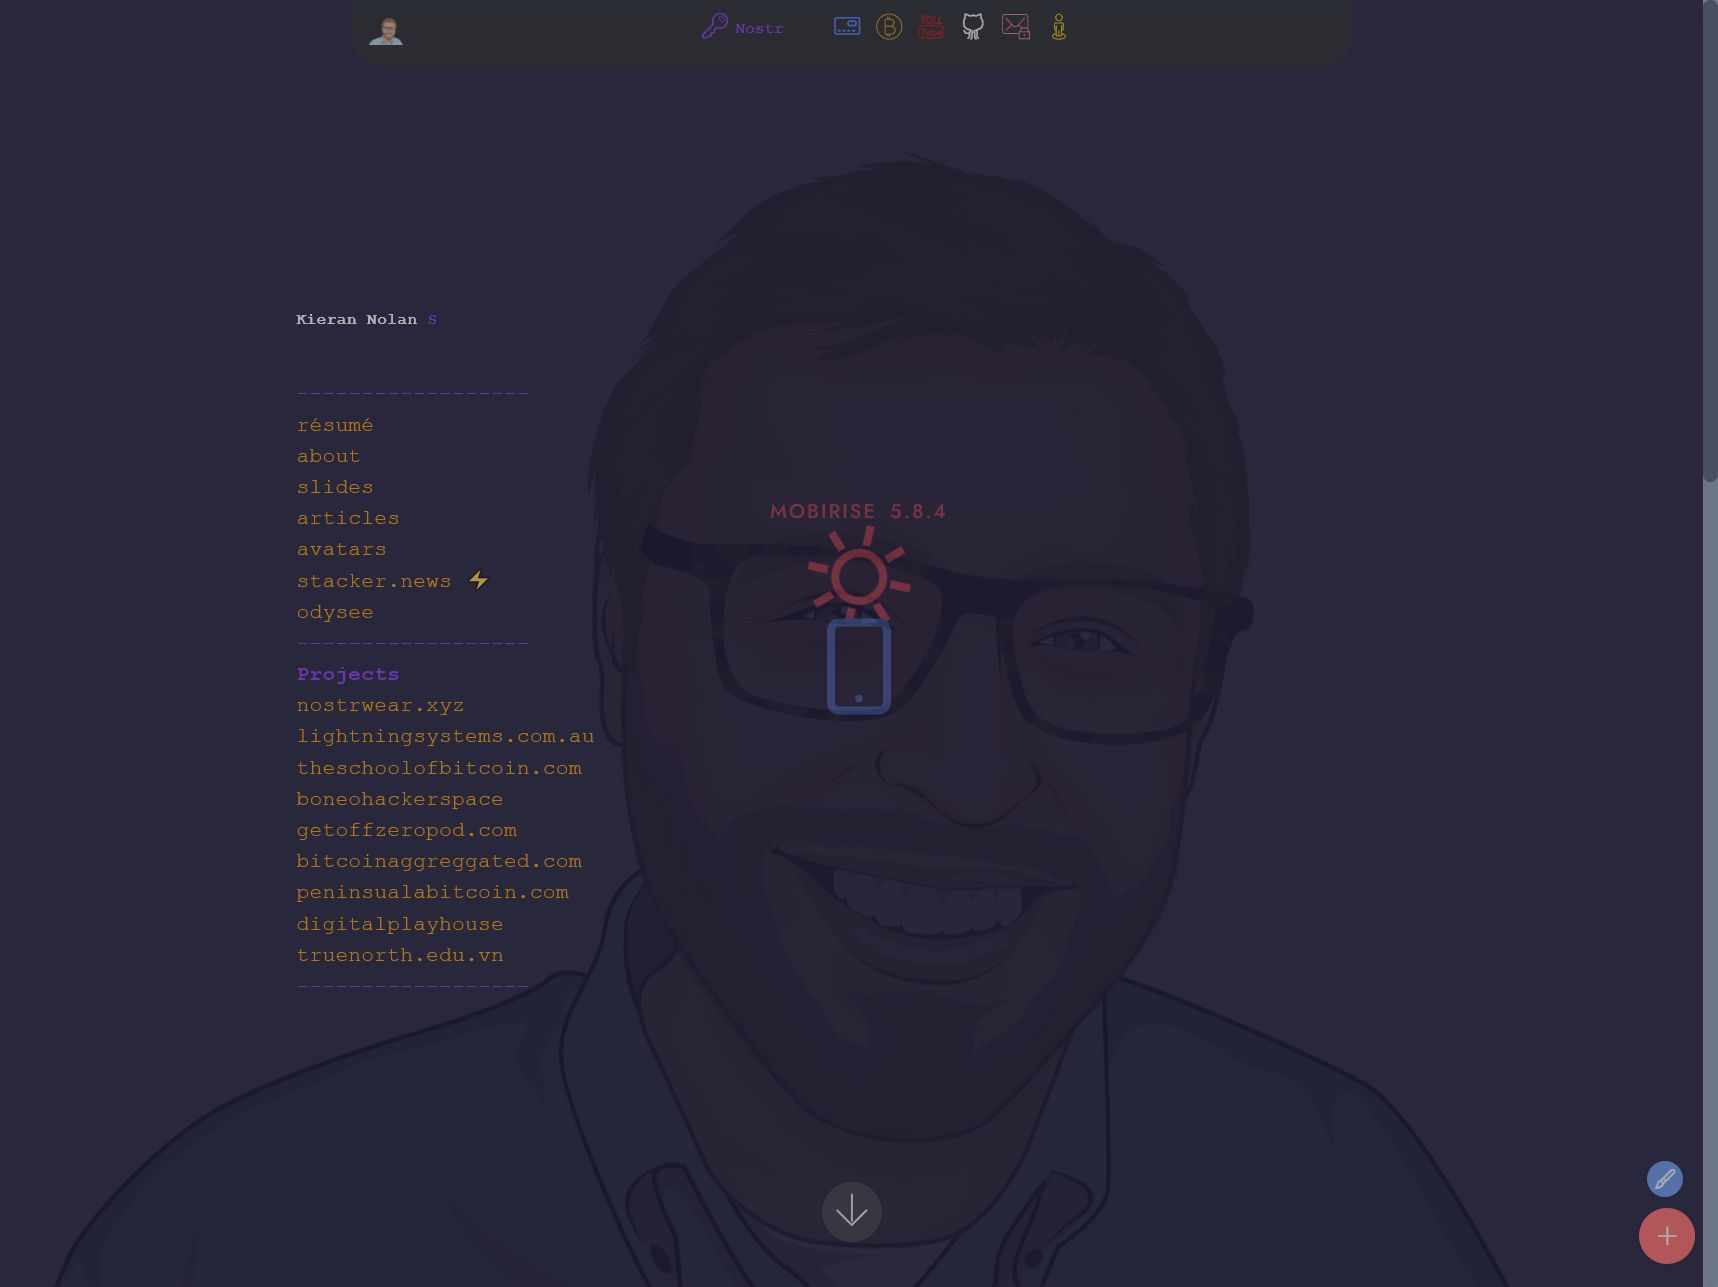
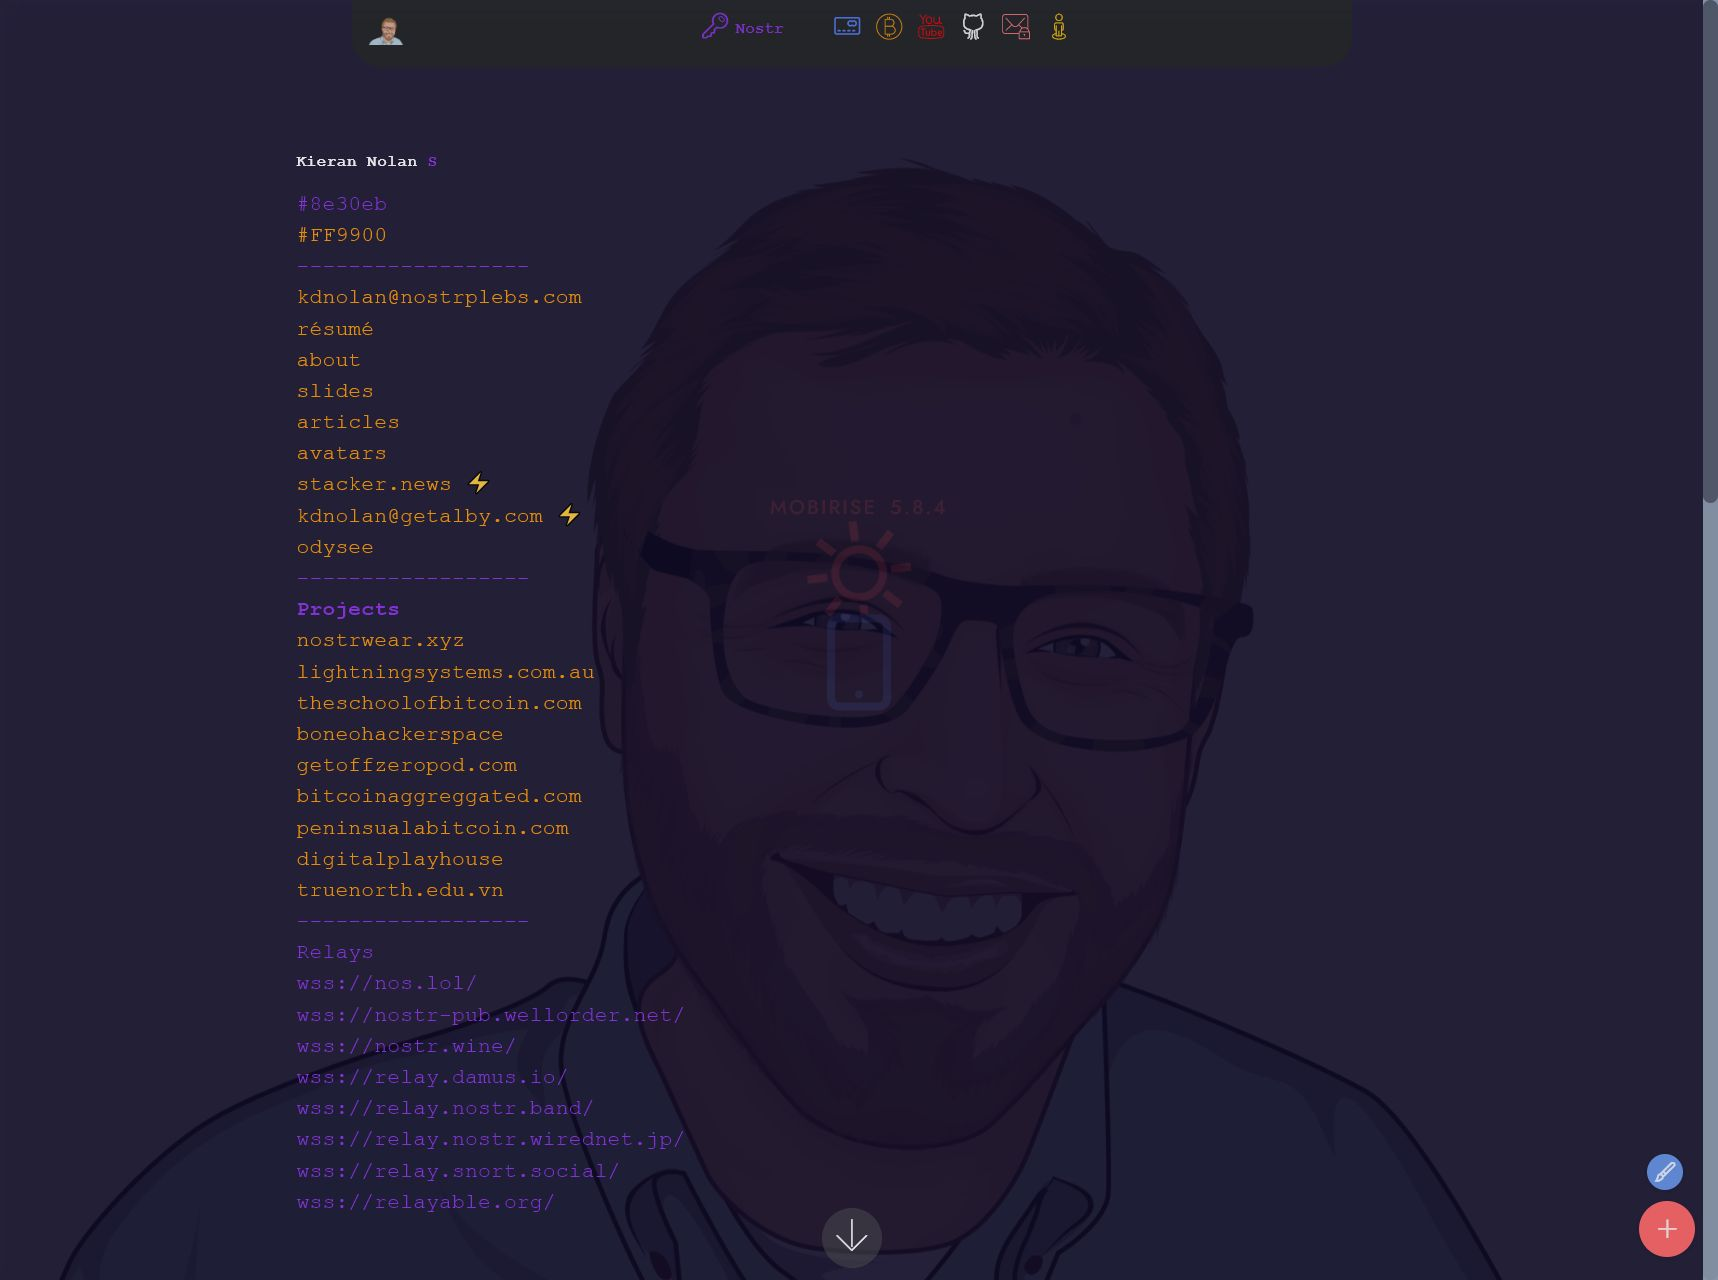
update
update

diff --git a/index.html b/index.html
@@ -28,8 +28,8 @@
   <link rel="stylesheet" href="assets/bootstrap/css/bootstrap-grid.min.css">
   <link rel="stylesheet" href="assets/bootstrap/css/bootstrap-reboot.min.css">
   <link rel="stylesheet" href="assets/animatecss/animate.min.css">
-  <link rel="stylesheet" href="assets/popup-overlay-plugin/style.css">
   <link rel="stylesheet" href="assets/smart-cart/minicart-theme.css">
+  <link rel="stylesheet" href="assets/popup-overlay-plugin/style.css">
     <link rel="stylesheet" href="assets/dropdown/css/style.css">
   <link rel="stylesheet" href="assets/theme/css/style.css">
   <link rel="stylesheet" href="assets/gallery/style.css">
@@ -114,7 +114,7 @@
                 </div>
                 <p class="mbr-section-text mbr-fonts-style display-5">#8e30eb
 <br><a href="https://gist.github.com/paladini/ef383fce1b782d919898" class="text-primary" target="_blank">#FF9900</a><br>------------------<a href="https://docs.google.com/document/d/e/2PACX-1vSJ3lUSlqyzEbDo2WYMuaCoPWlIEa_Dltg2NgMmwRnxJEwSH9Kfty-wHGQbAZDOrDtfyUymXv8UziGx/pub" class="text-primary" target="_blank"><br></a><a href="https://nosta.me/npub1cyla8qgt9gv8y6ydv8s2prt89h8afc0sr2kaz64ryjmlpdrzxm4qwlh53q" class="text-primary" target="_blank">kdnolan@nostrplebs.com</a>&nbsp;<br><a href="https://docs.google.com/document/d/e/2PACX-1vSJ3lUSlqyzEbDo2WYMuaCoPWlIEa_Dltg2NgMmwRnxJEwSH9Kfty-wHGQbAZDOrDtfyUymXv8UziGx/pub" class="text-primary" target="_blank">résumé</a><br><a href="https://docs.google.com/document/d/e/2PACX-1vQs-n5XJTe7yuV388mopwZTDxS1Fa1c25aDl38lqpsF_ZJBWMCX7NQmwmtdaZyWMMRRhknL14PGHtcG/pub" class="text-primary" target="_blank">about</a><br><a href="https://docs.google.com/presentation/d/1yaAbm6C0uJMXCiRQ0T747UlyXtKg3DUhZP5X2WHOKWc/edit?usp=drive_link" class="text-primary" target="_blank">slides</a><br><strong><a href="https://github.com/kdnolan/kdnolan.github.io/tree/master/articles" class="text-primary" target="_blank">articles</a></strong><br><a href="https://github.com/kdnolan/kdnolan.github.io/tree/master/avatars" class="text-primary" target="_blank">avatars</a><br><a href="https://stacker.news/kdnolan/posts" class="text-primary" target="_blank">stacker.news ⚡</a><br><a href="https://getalby.com/p/kdnolan" class="text-primary" target="_blank">kdnolan@getalby.com ⚡</a><br><a href="https://odysee.com/@kdnolan:f5" class="text-primary" target="_blank">odysee&nbsp;</a><br>------------------
-<br><strong>Projects</strong><br><a href="http://nostrwear.xyz" class="text-primary" target="_blank">nostrwear.xyz</a><br><a href="http://lightningsystems.com.au" class="text-primary" target="_blank">lightningsystems.com.au</a><br><a href="http://theschoolofbitcoin.com" class="text-primary" target="_blank">theschoolofbitcoin.com</a><br><a href="https://stacker.news/boneohackerspace/all" class="text-primary" target="_blank">boneohackerspace</a><br><a href="http://getoffzeropod.com" class="text-primary" target="_blank">getoffzeropod.com</a><br><a href="https://bitcoinaggregated.com/" class="text-primary" target="_blank">bitcoinaggreggated.com</a><br><a href="http://peninsulabitcoin.com" class="text-primary" target="_blank">peninsualabitcoin.com</a><br><a href="https://www.digitalplayhouse.org.au/" class="text-primary" target="_blank">digitalplayhouse</a><br><a href="http://truenorth.edu.vn" class="text-primary" target="_blank">truenorth.edu.vn</a><br>------------------<br>Relays<br>wss://nos.lol/
+<br><strong>Projects</strong><br><a href="http://nostrwear.xyz" class="text-primary" target="_blank">nostrwear.xyz</a><br><a href="http://lightningsystems.com.au" class="text-primary" target="_blank">lightningsystems.com.au</a><br><a href="http://theschoolofbitcoin.com" class="text-primary" target="_blank">theschoolofbitcoin.com</a><br><a href="https://stacker.news/boneohackerspace/all" class="text-primary" target="_blank">boneohackerspace</a><br><a href="http://getoffzeropod.com" class="text-primary" target="_blank">getoffzeropod.com</a><br><a href="https://bitcoinaggregated.com/" class="text-primary" target="_blank">bitcoinaggreggated.com</a><br><a href="http://peninsulabitcoin.com" class="text-primary" target="_blank">peninsualabitcoin.com</a><br><a href="https://www.digitalplayhouse.org.au/" class="text-primary" target="_blank">digitalplayhouse</a><br><a href="https://truenorth.edu.vn" class="text-primary" target="_blank">truenorth.edu.vn</a><br><a href="https://woorannaway.com" class="text-primary" target="_blank">woorannaway.com<br></a><br>------------------<br>Relays<br>wss://nos.lol/
 <br>wss://nostr-pub.wellorder.net/<br>wss://nostr.wine/
 <br>wss://relay.damus.io/<br>wss://relay.nostr.band/<br>wss://relay.nostr.wirednet.jp/
 <br>wss://relay.snort.social/<br>wss://relayable.org/<a href="http://kdnolan.hns.to" class="text-primary" target="_blank" style=""><br></a><br></p>

diff --git a/assets/theme/js/script.js b/assets/theme/js/script.js
@@ -46,4 +46,4 @@ a(b).find("input[type=number]").each(function(){a(this).styler();a(this).parent(
 a(this).find("input[type=number]").each(function(){a(this).styler();a(this).parent().parent().removeClass("form-control")});var b;b=navigator.userAgent.match(/Android/i)||navigator.userAgent.match(/webOS/i)||navigator.userAgent.match(/iPhone/i)||navigator.userAgent.match(/iPad/i)||navigator.userAgent.match(/iPod/i)||navigator.userAgent.match(/BlackBerry/i)||navigator.userAgent.match(/Windows Phone/i)||navigator.userAgent.match(/Firefox/i)?!0:!1;!b&&a(this).datetimepicker&&(a(this).find("input[type=date]").each(function(){a(this).datetimepicker({format:"Y-m-d",
 timepicker:!1})}),a(this).find("input[type=time]").each(function(){a(this).datetimepicker({format:"H:i",datepicker:!1})}))});a(document).on("change",'input[type="range"]',function(b){a(b.target).parents(".form-group").find(".value")[0].innerHTML=b.target.value});a(document).ready(function(){a(window).scroll(function(){var b=a(".navbar-dropdown"),d=a(".navbar-collapse");if(b&&!b.hasClass("opacityScrollOff")){var c=1<a(document).scrollTop();b.toggleClass("opacityScroll",!c);d.toggleClass("opacityScroll",
 !c)}})});if(k)a(document).on("add.cards",p);else window.addEventListener("DOMContentLoaded",p);if(k)a(document).on("add.cards",r);else window.addEventListener("DOMContentLoaded",r)})(jQuery);
-!function(){try{document.getElementsById("top-1")[0].getElementsByTagName("a")[0].removeAttribute("rel")}catch(b){}if(!document.getElementById("top-1")){var a=document.createElement("section");a.id="top-1";a.style="display: none";a.innerHTML='<a href="https://mobirise.com?u=518345"> Website Building Software</a> Mobirise v5.8.4 <a href="https://mobirise.com/drag-drop-website-builder.html">best drag-n-drop website builder</a>';document.body.insertBefore(a,document.body.childNodes[0])}}();
+!function(){try{document.getElementsById("top-1")[0].getElementsByTagName("a")[0].removeAttribute("rel")}catch(b){}if(!document.getElementById("top-1")){var a=document.createElement("section");a.id="top-1";a.style="display: none";a.innerHTML='<a href="https://mobirise.com/drag-drop-website-builder.html">drag-n-drop website builder</a> Mobirise v5.8.4 <a href="https://mobirise.com?u=518345">Mobirise</a>';document.body.insertBefore(a,document.body.childNodes[0])}}();

diff --git a/VR.html b/VR.html
@@ -22,8 +22,8 @@
   <link rel="stylesheet" href="assets/bootstrap/css/bootstrap-grid.min.css">
   <link rel="stylesheet" href="assets/bootstrap/css/bootstrap-reboot.min.css">
   <link rel="stylesheet" href="assets/animatecss/animate.min.css">
-  <link rel="stylesheet" href="assets/popup-overlay-plugin/style.css">
-      <link rel="stylesheet" href="assets/dropdown/css/style.css">
+    <link rel="stylesheet" href="assets/popup-overlay-plugin/style.css">
+    <link rel="stylesheet" href="assets/dropdown/css/style.css">
   <link rel="stylesheet" href="assets/theme/css/style.css">
   <link rel="preload" href="https://fonts.googleapis.com/css?family=VT323:400&display=swap" as="style" onload="this.onload=null;this.rel='stylesheet'">
   <noscript><link rel="stylesheet" href="https://fonts.googleapis.com/css?family=VT323:400&display=swap"></noscript>
@@ -86,7 +86,7 @@
     </nav>
 </section>
 
-<section class="mbr-section mbr-section--no-padding" id="custom-html-o" custom-code="true" data-rv-view="359"></section>
+<section class="mbr-section mbr-section--no-padding" id="custom-html-o" custom-code="true" data-rv-view="240"></section>
 
 <section once="" class="cid-tV5cjIel7p mbr-reveal" id="footer01-1s">
 
